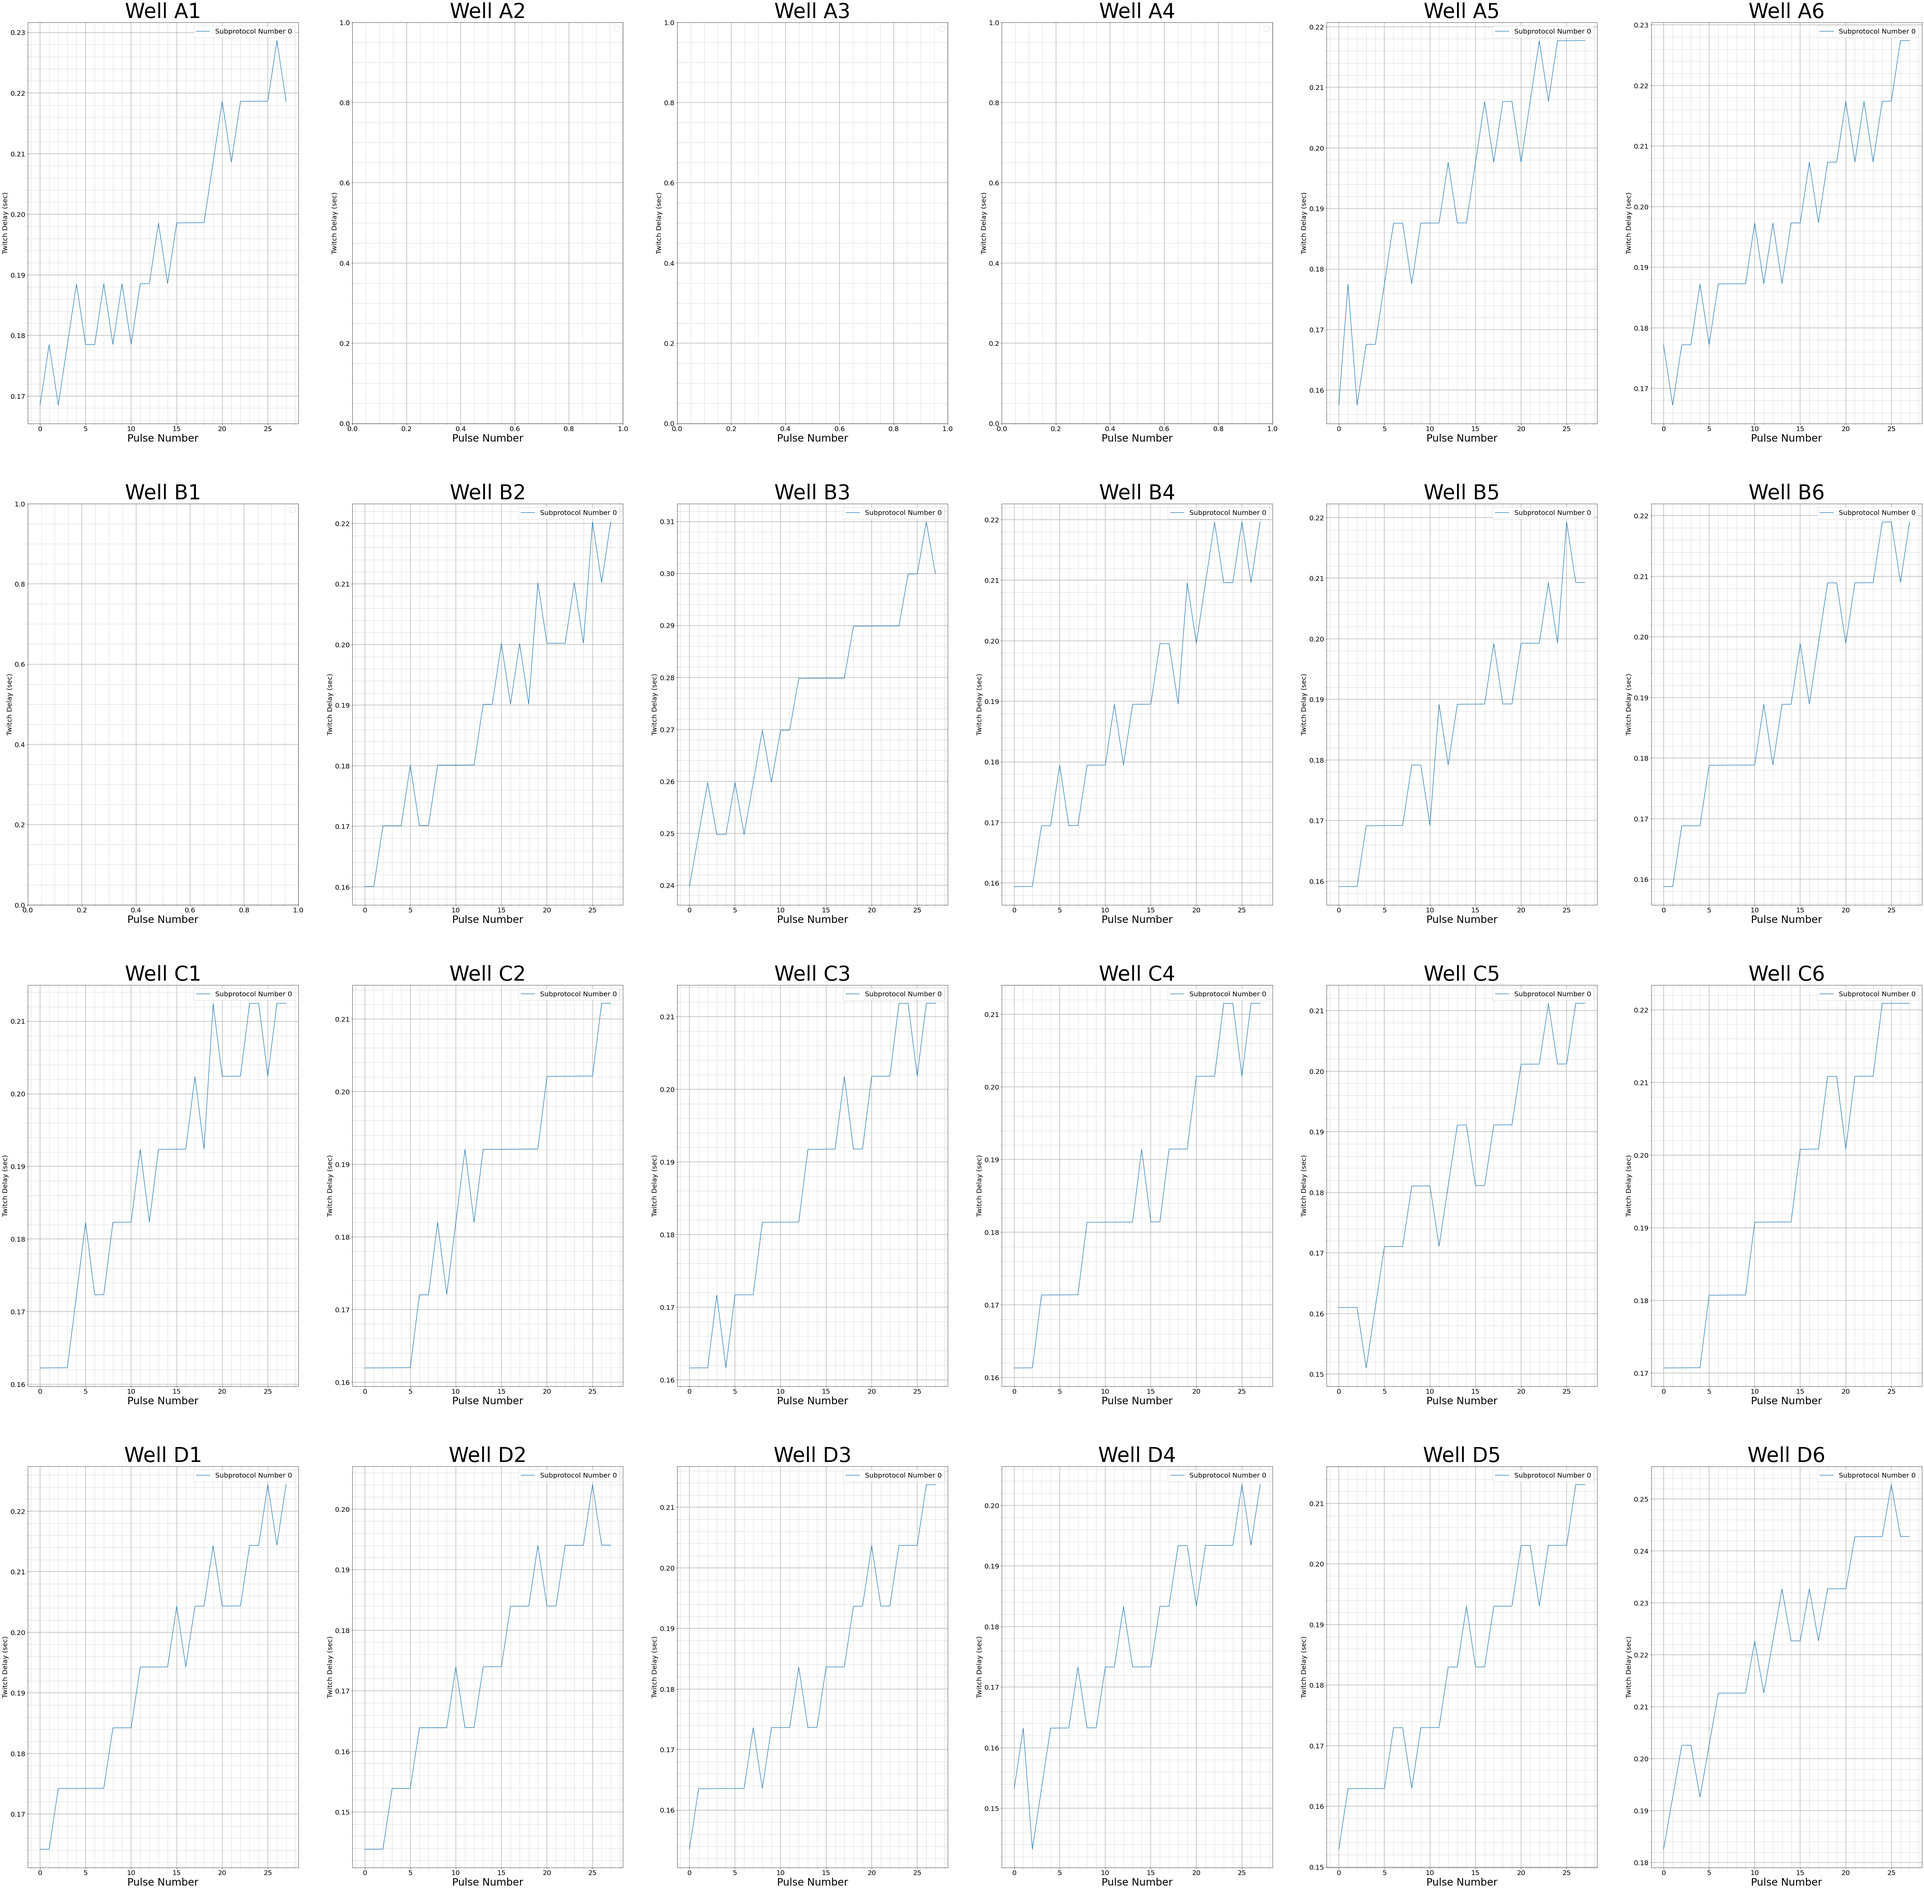
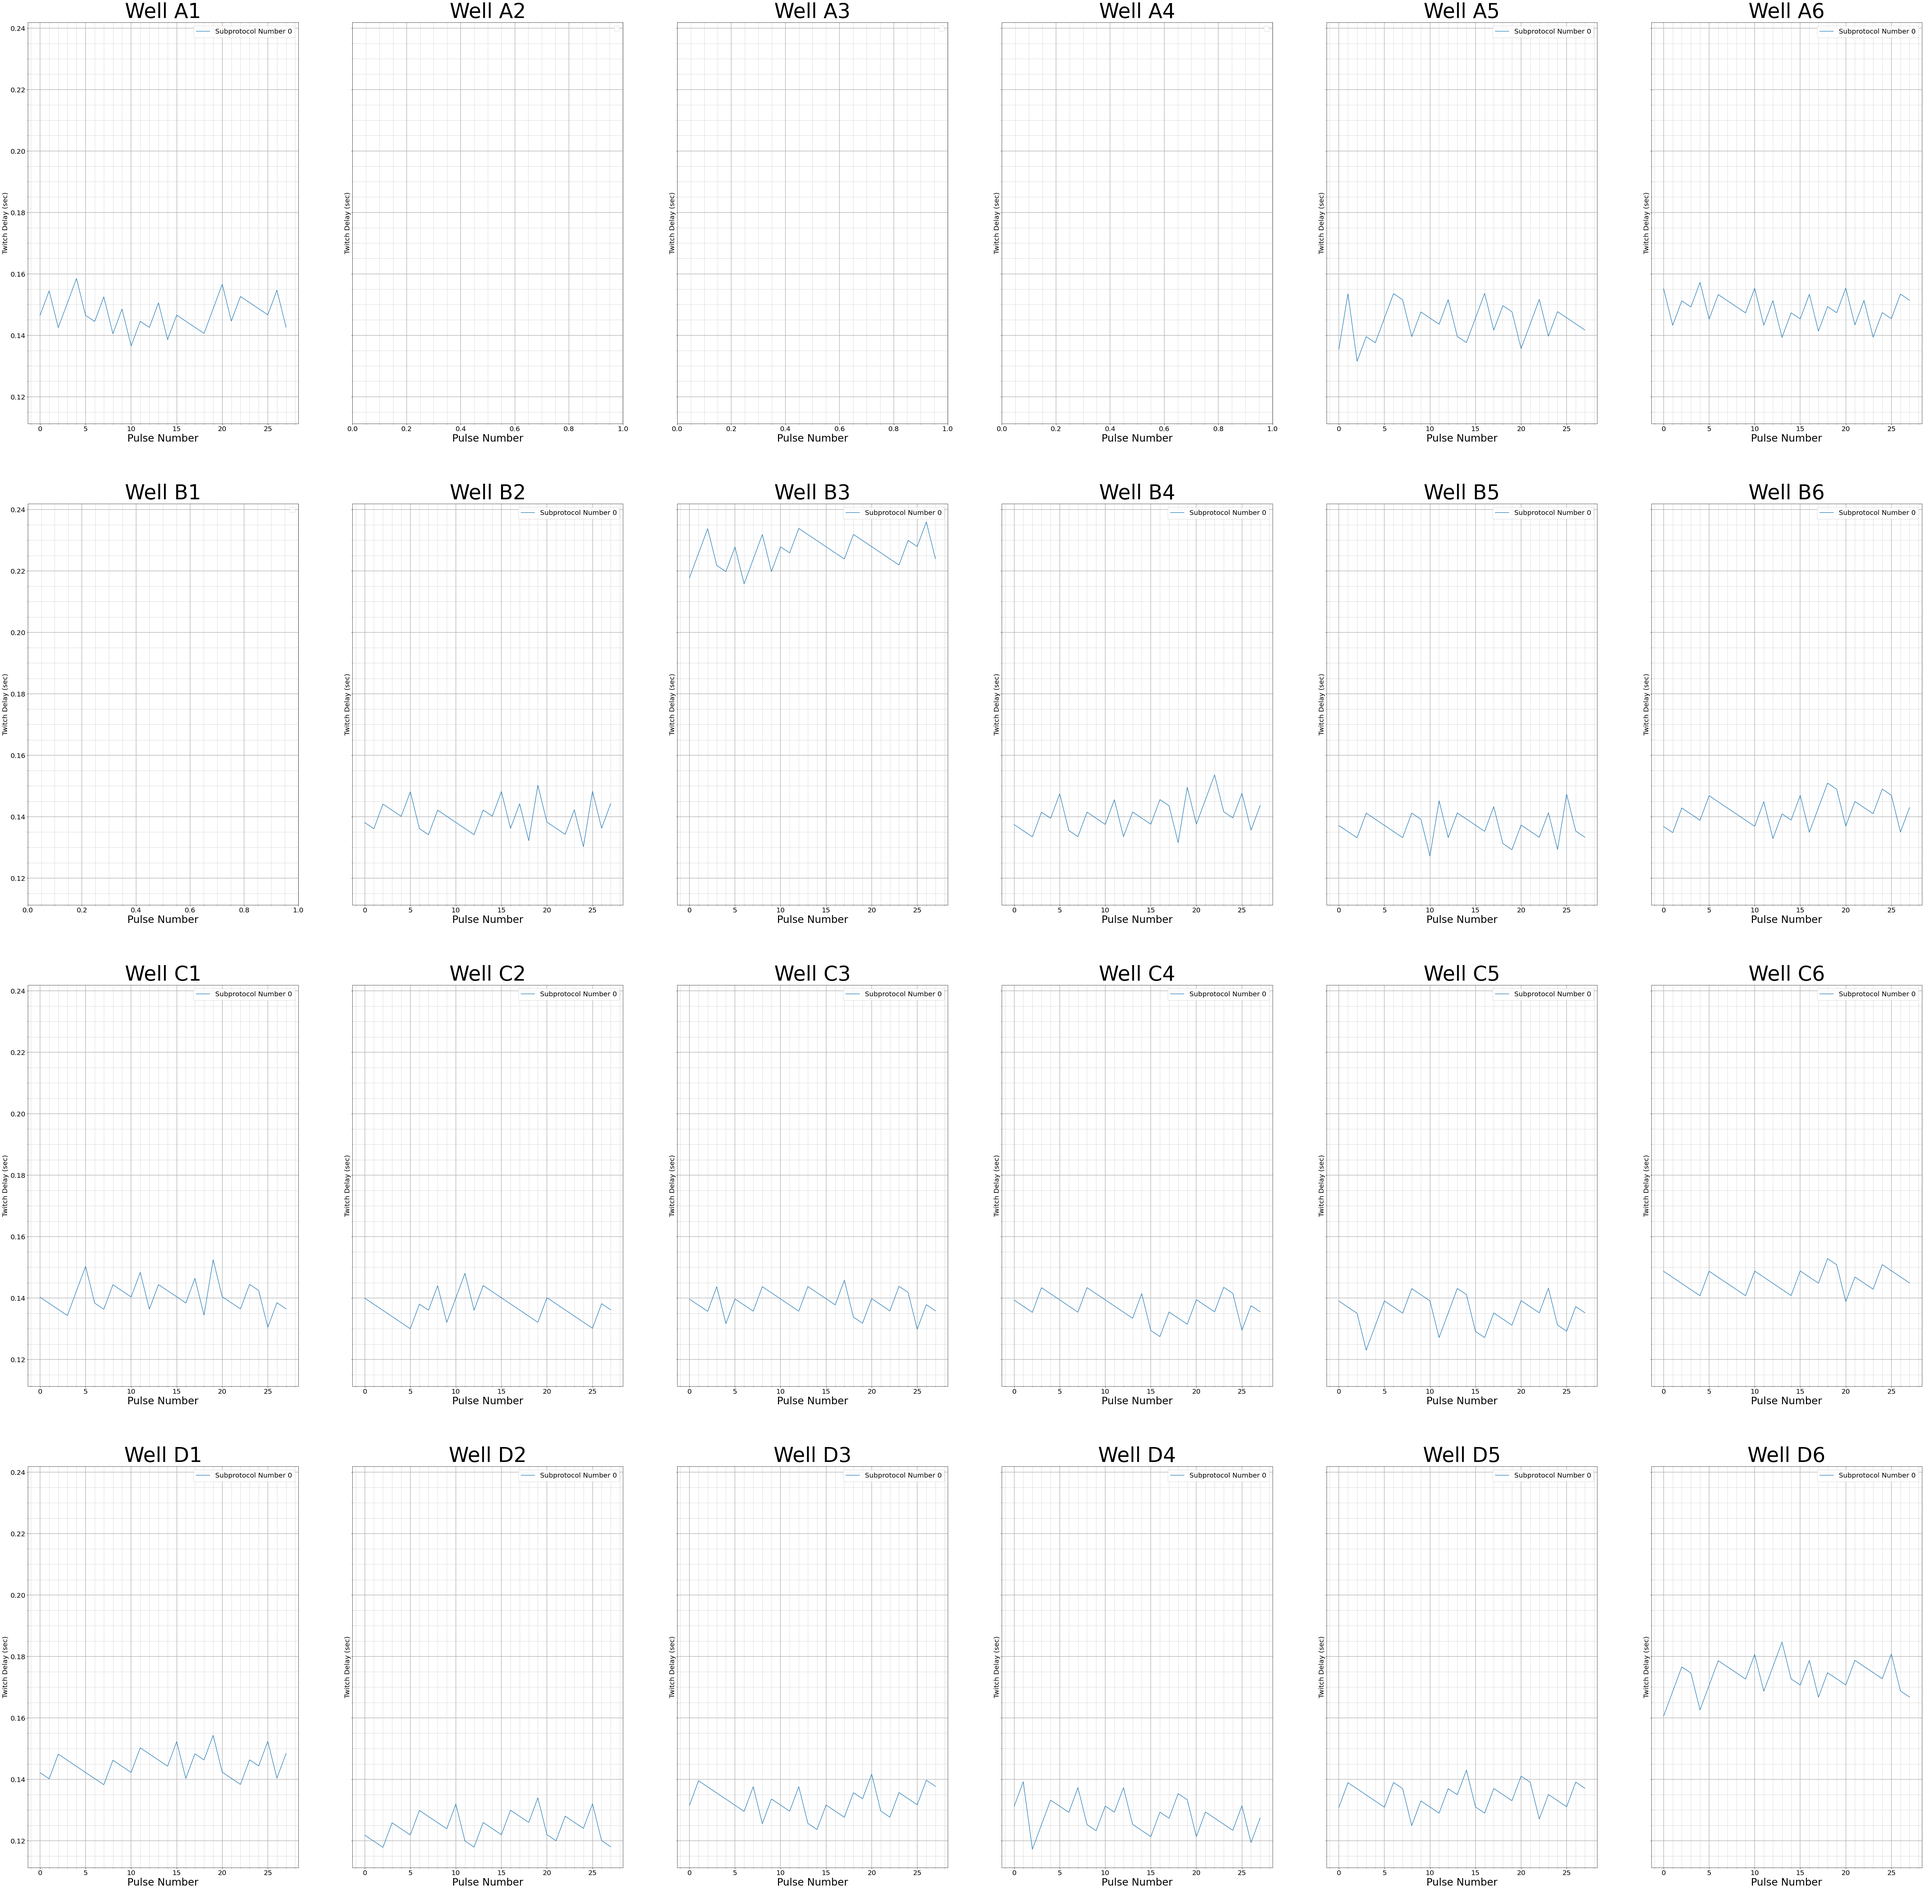
Added the scripts for logic analyzer and tissue twitch delay processing

diff --git a/Post Processing Scripts/Stim Pulse Start.py b/Post Processing Scripts/Stim Pulse Start.py
@@ -40,7 +40,8 @@ for subprotocolIndex, subprotocol in enumerate(stimConfig["pulses"]):
     pulseTiming[subprotocolIndex] += (subprotocol["interphase_interval"] + 
                                       subprotocol["phase_one_duration"] + 
                                       subprotocol["phase_two_duration"] + 
-                                      subprotocol["repeat_delay_interval"])
+                                      subprotocol["repeat_delay_interval"] + 
+                                      2)
     pulseTiming[subprotocolIndex]/=1000
 
 #%%
@@ -155,20 +156,25 @@ for wellNum in range(numWells):
 fig.savefig(f"{targetPlotsFolderName}\{targetDataFolderName}_transient", bbox_inches = 'tight')
 
 #%% Peak finding algorithms
+twitchDelays = []
 # Select only sensor 1 axis Z
 peakedData = fullData[:,0,2,:]
 peakedTimestamps = fullTimestamps[:,0,:]
-fig, axs = plt.subplots(4, 6, figsize=(100, 100))
+fig, axs = plt.subplots(4, 6, figsize=(100, 100), sharey = True)
 for wellNum in range(numWells):
+    thisData = peakedData[wellNum]
+    thisTimestamps = peakedTimestamps[wellNum]
 # for wellNum in range(1):
     row = int(wellNum / 6)
     col = int(wellNum % 6)
     # Find the peaks on sensor 1 axis Z
-    peaks = find_peaks(peakedData[wellNum])[0]
+    peaks = find_peaks(thisData)[0]
     # Find the prominence of each peak
-    prominences = peak_prominences(peakedData[wellNum], peaks)[0]
+    prominences = peak_prominences(thisData, peaks)[0]
     # Filter the peaks so that we are only paying attention to those that have a significant prominence
-    filteredPeaks = find_peaks(peakedData[wellNum], prominence = np.amax(prominences)/4)[0]
+    filteredPeaks = find_peaks(thisData, prominence = np.amax(prominences)/4)[0]
+    
+    twitchDelays.insert(wellNum, np.mean(np.diff(thisTimestamps[filteredPeaks])))
     
     for subprotocolNumber, subprotocolIndex in enumerate(fullStimData[wellNum, 1]):
         # If we are looking at a null subprotocol, ignore it
@@ -179,22 +185,22 @@ for wellNum in range(numWells):
             if beginning < 0:
                 beginning = graphLeft + ((beginning - graphLeft) % pulseTiming[int(subprotocolIndex)])
             # Find the index in the timestamp array that this beginning starts at
-            timestampIndexAtBeginning = np.argmin(np.abs(peakedTimestamps[wellNum] - beginning))
+            timestampIndexAtBeginning = np.argmin(np.abs(thisTimestamps - beginning))
             # Find the ending timestamp of the subprotocol
             ending = fullStimData[wellNum, 0, subprotocolNumber + 1] if subprotocolNumber < fullStimData.shape[2] - 1 else graphRight
             # Find the index in the timestamp array that this ending ends at
-            timestampIndexAtEnding = np.argmin(np.abs(peakedTimestamps[wellNum] - ending))
+            timestampIndexAtEnding = np.argmin(np.abs(thisTimestamps - ending))
             # Interpolate a time index series from the beginning to the end of the subprotocol stimulation to overlay on the magnetometer data
             pulseStarts = np.arange(beginning, ending, pulseTiming[int(subprotocolIndex)])
             
             # Find the index in the interpolated pulse array that matches up to the index at the beginning of the timestamp array for this subprotocol
-            firstPulseIndex = np.argmin(np.abs(pulseStarts - peakedTimestamps[wellNum, timestampIndexAtBeginning]))
+            firstPulseIndex = np.argmin(np.abs(pulseStarts - thisTimestamps[timestampIndexAtBeginning]))
             # Find the index in the interpolated pulse array that matches up to the index at the ending of the timestamp array for this subprotocol
-            lastPulseIndex = np.argmin(np.abs(pulseStarts - peakedTimestamps[wellNum, timestampIndexAtEnding]))
+            lastPulseIndex = np.argmin(np.abs(pulseStarts - thisTimestamps[timestampIndexAtEnding]))
             # If there are more or less pulses in the pulse array then peaks in the data, then there is a good chance you aren't capturing tissue and I can't help ya bud
-            if (lastPulseIndex - firstPulseIndex) == peakedTimestamps[wellNum, filteredPeaks].shape[0]:
+            if (lastPulseIndex - firstPulseIndex) == thisTimestamps[filteredPeaks].shape[0]:
                 # Derive a delay array from when the pulses started compared to their corresponding peaks
-                delays = peakedTimestamps[wellNum, filteredPeaks] - pulseStarts[firstPulseIndex:lastPulseIndex]
+                delays = thisTimestamps[filteredPeaks] - pulseStarts[firstPulseIndex:lastPulseIndex]
                 # Plot the delay array
                 axs[row, col].plot(np.arange(delays.shape[0]), delays, label=f'Subprotocol Number {subprotocolNumber}')
     

diff --git a/Post Processing Scripts/LogicAnalyzerParser.py b/Post Processing Scripts/LogicAnalyzerParser.py
@@ -1,0 +1,90 @@
+import os
+import numpy as np
+import matplotlib.pyplot as plt
+from pathlib import Path
+from tkinter import Tk
+from tkinter.filedialog import askopenfilename
+
+wellMap = ['A6', 'C6', 'D6']
+
+#%%
+root = Tk()
+root.wm_attributes('-topmost', 1)
+fileName = askopenfilename()
+root.destroy()
+
+filePath = Path(fileName)
+
+targetDataFolderName = filePath.name[:-4]
+targetPlotsBasePath = f'{filePath.parent.parent}/plots'
+targetPlotsFolderName = f'{targetPlotsBasePath}/{targetDataFolderName}_plots'
+
+if (os.path.exists(targetPlotsBasePath) == False): 
+    os.mkdir(targetPlotsBasePath)
+    
+if (os.path.exists(targetPlotsFolderName) == False): 
+    os.mkdir(targetPlotsFolderName)
+    
+#%%
+headers = np.loadtxt(fileName, max_rows = 1, delimiter = ',', dtype = str)
+numHeaders = headers.shape[0]
+numChannels = numHeaders - 1
+timestamps = np.loadtxt(fileName, skiprows = 1, delimiter = ',', usecols = 0)
+data = np.loadtxt(fileName, skiprows = 1, delimiter = ',', usecols = tuple(np.arange(1, numHeaders)))
+    
+#%%
+risingEdgeIndices = []
+for channelNum in range(numChannels):
+    thisData = data[:,channelNum]
+    differenceArray = np.diff(thisData)
+    largeDifferenceIndices = np.argwhere(differenceArray > np.amax(differenceArray)/4)
+    largeDifferenceIndicesPositives = largeDifferenceIndices[thisData[1:][largeDifferenceIndices] > .1]
+    largeDifferenceIndicesPositives = np.insert(largeDifferenceIndicesPositives, 0, 0)
+    risingEdgeIndices.insert(channelNum, largeDifferenceIndicesPositives[1:][np.diff(largeDifferenceIndicesPositives) > 1] + 1)
+
+
+#%%
+fig, axs = plt.subplots(numChannels, figsize=(80, 40))
+for channelNum in range(numChannels):
+    axs[channelNum].plot(timestamps[:], data[:,channelNum])
+    axs[channelNum].plot(timestamps[risingEdgeIndices[channelNum][:]], data[:,channelNum][risingEdgeIndices[channelNum][:]], "x")     #Plot the peaks with little X's
+    
+fig.savefig(f"{targetPlotsFolderName}\{targetDataFolderName}_test", bbox_inches = 'tight')
+
+#%%
+fig, axs = plt.subplots(numChannels, figsize=(80, 40), sharey = True)
+for channelNum in range(numChannels):
+    timingDifferences = np.diff(timestamps[risingEdgeIndices[channelNum]])
+    axs[channelNum].plot(np.arange(timingDifferences.shape[0]), timingDifferences)
+    axs[channelNum].set_title(f'Well {wellMap[channelNum]}', fontsize = 60)
+    axs[channelNum].set_xlabel('Pulse Number', fontsize = 30)
+    axs[channelNum].set_ylabel('Twitch Delay (sec)', fontsize = 20)
+    axs[channelNum].tick_params(which = 'major', labelsize = 20)
+    axs[channelNum].minorticks_on()
+    axs[channelNum].grid(which='major', linewidth=1.5)
+    axs[channelNum].grid(which='minor', linewidth=.5)
+    axs[channelNum].legend(fontsize = 20)
+    
+fig.savefig(f"{targetPlotsFolderName}\{targetDataFolderName}_differences", bbox_inches = 'tight')
+
+
+#%% Clock analysis
+differenceArray = np.diff(data)
+largeDifferenceIndices = np.argwhere(differenceArray > np.amax(differenceArray)/4)
+largeDifferenceIndicesPositives = largeDifferenceIndices[data[1:][largeDifferenceIndices] > .1]
+largeDifferenceIndicesPositives = np.insert(largeDifferenceIndicesPositives, 0, 0)
+risingEdgeIndices = largeDifferenceIndicesPositives[1:][np.diff(largeDifferenceIndicesPositives) > 1] + 1
+
+fig, axs = plt.subplots(figsize=(80, 10))
+timingDifferences = np.diff(timestamps[risingEdgeIndices]) * 1e6
+axs.plot(np.arange(timingDifferences.shape[0]), timingDifferences)
+axs.set_title('System Clock', fontsize = 60)
+axs.set_xlabel('Clock Num', fontsize = 30)
+axs.set_ylabel('Clock Period (us)', fontsize = 20)
+axs.tick_params(which = 'major', labelsize = 20)
+axs.minorticks_on()
+axs.grid(which='major', linewidth=1.5)
+axs.grid(which='minor', linewidth=.5)
+axs.legend(fontsize = 20)
+    
+fig.savefig(f"{targetPlotsFolderName}\{targetDataFolderName}_differences", bbox_inches = 'tight')
